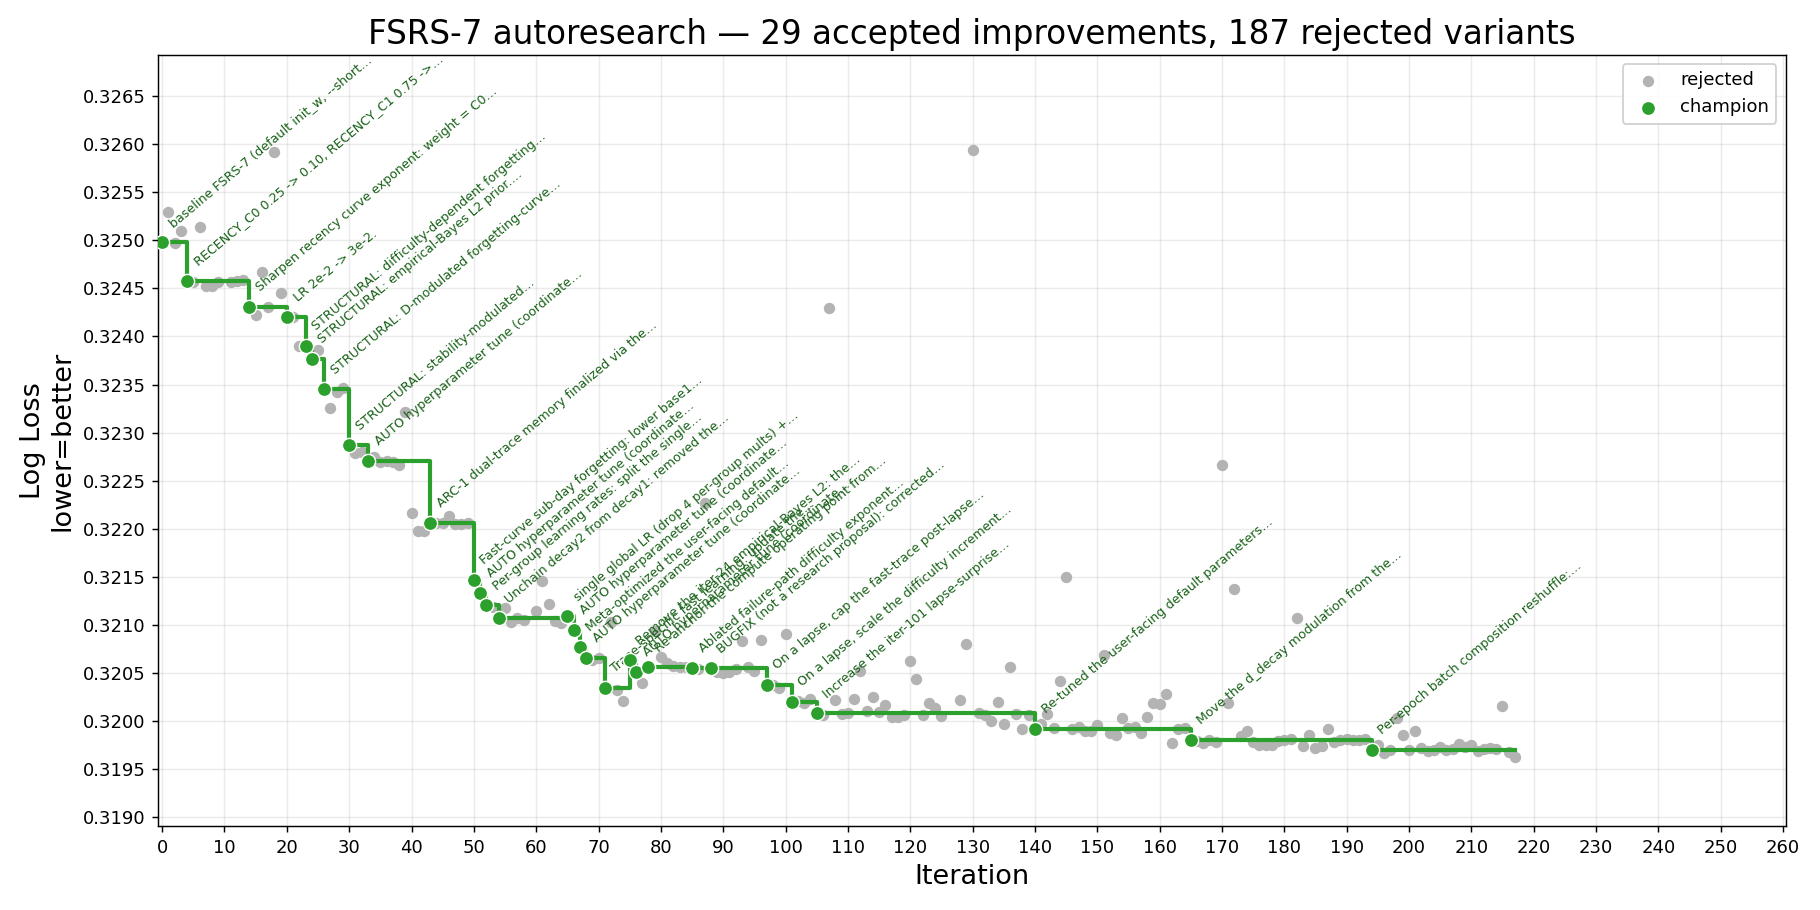
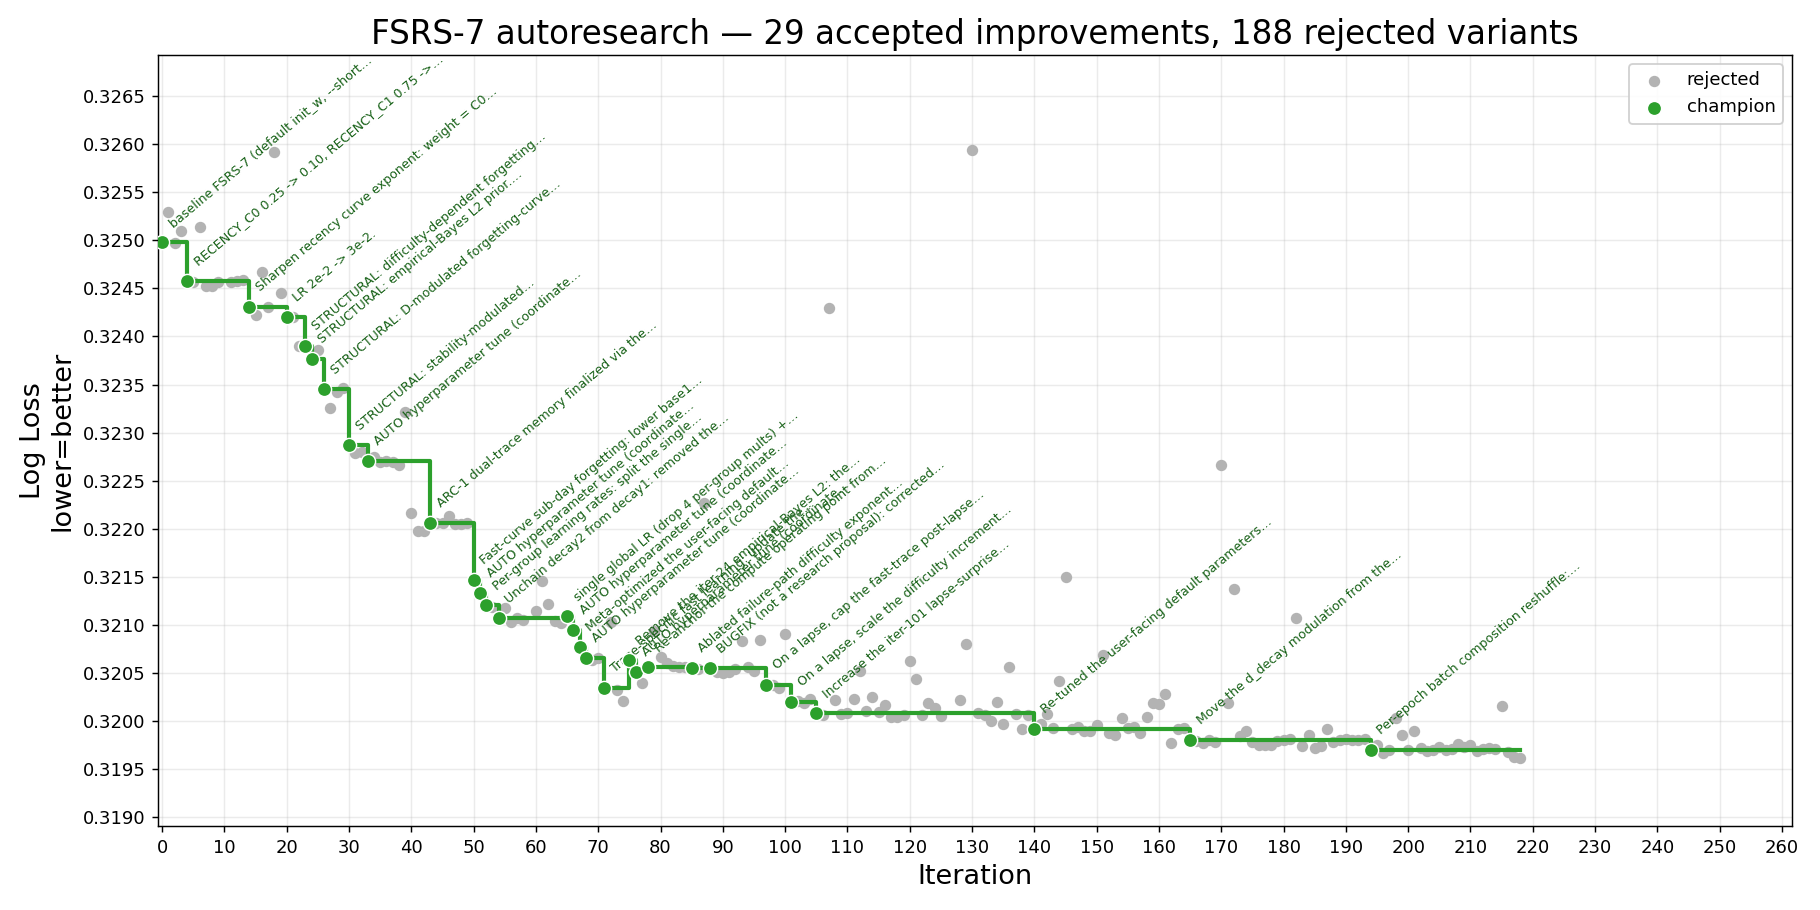
iter-218 rejected (+8.3e-5, bar 0.0001): W x rel joint grid; S0-evidence family fully mapped, interior peak sub-bar
Gridded PRETRAIN_PRIOR_W x S0_SIGMA_REL on the unchanged iter-217 per-row
S0-anchor design (7 new cells + 2 reused). Joint peak moved to (16, 2.0):
mean-of-3 BIT-IDENTICAL 0.31961504 = +8.35e-5 -> REJECT at 83% of the bar.
Peak is interior on both axes — nothing left to chase. Family closed: raw
MLE -4.6e-4 (215) -> shrunk init +2.2e-5 (216) -> per-row anchor +7.9e-5
(217) -> joint optimum +8.35e-5 (218). A real ~8e-5 mechanism that cannot
reach the 1e-4 training-pipeline bar; accept-under-bar is the user's call,
candidate preserved in C:\Temp (run_iter217.py + helpers_iter217.py,
W=16/rel=2.0; would also need a ~170-point complexity shave).

diff --git a/result/history.md b/result/history.md
@@ -1,6 +1,6 @@
 # FSRS-7 autoresearch — iteration history
 
-_217 record(s). Generated from `history.jsonl` — do not edit by hand._
+_218 record(s). Generated from `history.jsonl` — do not edit by hand._
 
 | # | Time (UTC) | Thresh. | LL before | LL after | Δ LL | Cx before | Cx after | Δ Cx % | Status | Summary |
 |--:|---|---:|---:|---:|---:|---:|---:|---:|---|---|
@@ -221,3 +221,4 @@ _217 record(s). Generated from `history.jsonl` — do not edit by hand._
 | 215 | 2026-06-11T22:21:35 | 0.0001 | 0.31970 | 0.32016 | -0.00046 | 19,909 | 20,886 | +4.91% | rejected | Resurrect per-user S0 pretrain: per-row grid-fit w[0..3] from first->second-review outcomes (train segment) before SGD. |
 | 216 | 2026-06-11T23:14:22 | 0.0001 | 0.31970 | 0.31968 | +0.00002 | 19,909 | 20,968 | +5.32% | rejected | S0 pretrain v2: log-space prior toward defaults in the grid fit (precision-weighted shrinkage), replacing the hard pair-count cutoff. |
 | 217 | 2026-06-12T00:16:17 | 0.0001 | 0.31970 | 0.31962 | +0.00008 | 19,909 | 21,065 | +5.81% | rejected | Per-row S0 L2 anchor: anchor+sigma w[0..3] to the shrunk pretrain estimates (sigma = rel*anchor); rel bracketed. |
+| 218 | 2026-06-12T00:55:25 | 0.0001 | 0.31970 | 0.31962 | +0.00008 | 19,909 | 21,065 | +5.81% | rejected | Joint re-tune of the S0-evidence knobs: grid PRETRAIN_PRIOR_W x S0_SIGMA_REL around (32, 2.0) on the iter-217 design. |
